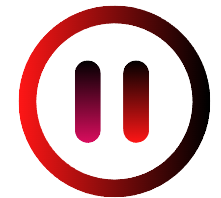
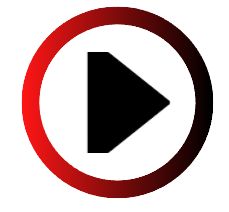
Functional MP3

diff --git a/button.py b/button.py
@@ -1,10 +1,10 @@
 import pygame
+from pygame import mixer
 from tkinter import *
 import tkinter as tk
 from tkinter import filedialog
 
 pygame.init()
-pygame.mixer.init()
 
 #create pygame window
 SCREEN_WIDTH = 800
@@ -37,46 +37,81 @@ class Button():
 
         if pygame.mouse.get_pressed()[0] == 0:
             self.clicked = False
+            
 
         #draw button on screen
         surface.blit(self.image, (self.rect.x, self.rect.y))
 
         return action
 
+    #def hide(self, surface):
+
+
+        
+
+
+
+        
+
 stop_img = pygame.image.load("images/stop.png").convert_alpha()
 play_img = pygame.image.load("images/play.png").convert_alpha()
 next_img = pygame.image.load("images/next.png").convert_alpha()
 back_img = pygame.image.load("images/back.png").convert_alpha()
 quit_img = pygame.image.load("images/quit.png").convert_alpha()
+pause_img = pygame.image.load("images/pause.png").convert_alpha()
 previous_img = pygame.image.load("images/previous.png").convert_alpha()
 settings_img = pygame.image.load("images/settings.png").convert_alpha()
 
 stop_button = Button(304, 125, stop_img, 1)
-play_button = Button(297, 250, play_img, 1)
+play_button = Button(300, 400, play_img, 0.5)
 next_button = Button(336, 375, next_img, 1)
 back_button = Button(226, 75, back_img, 1)
-quit_button = Button(336, 375, quit_img, 1)
+quit_button = Button(630, 500, quit_img, 1)
+pause_button = Button(500, 400, pause_img, 0.5)
 previous_button = Button(246, 325, previous_img, 1)
 settings_button = Button(332, 450, settings_img, 1)
 
 class MusicPlayer():
+    def __init__(self):
+        self.music_file = False
+        self.playing_state = False
+
     def load(self):
-        pass
+            self.music_file = filedialog.askopenfilename()
+            pass
 
     def play(self):
+        if self.music_file:
+            mixer.init()
+            mixer.music.load(self.music_file)
+            mixer.music.play()
+            self.playing_state = True
         pass
 
     def pause(self):
+        if self.playing_state:
+            mixer.music.pause()
+            self.playing_state = False
+        else:
+            mixer.music.unpause()
+            self.playing_state = True
         pass
 
     def stop(self):
         pass
 
-MusicPlayer()
+mp3 = MusicPlayer()
 run = True
 while run:
     
     screen.fill((52, 78, 91))
+
+    if play_button.draw(screen):
+        mp3.load()
+        mp3.play()
+
+    if pause_button.draw(screen):
+        mp3.pause()
 
     if quit_button.draw(screen):
         run = False
